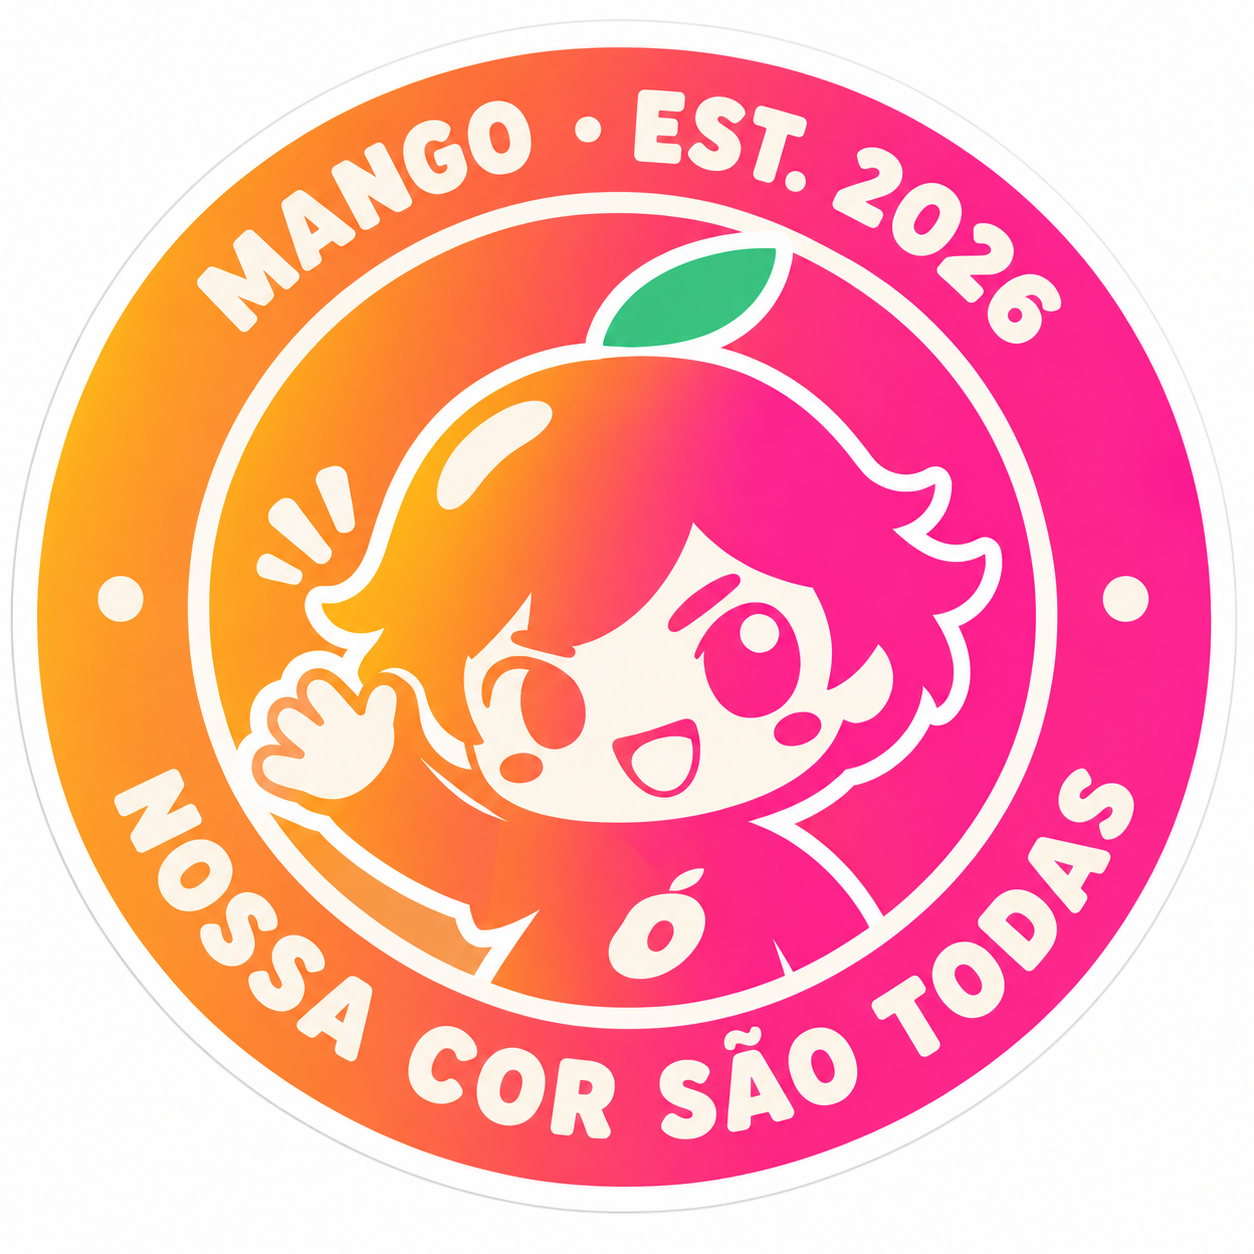
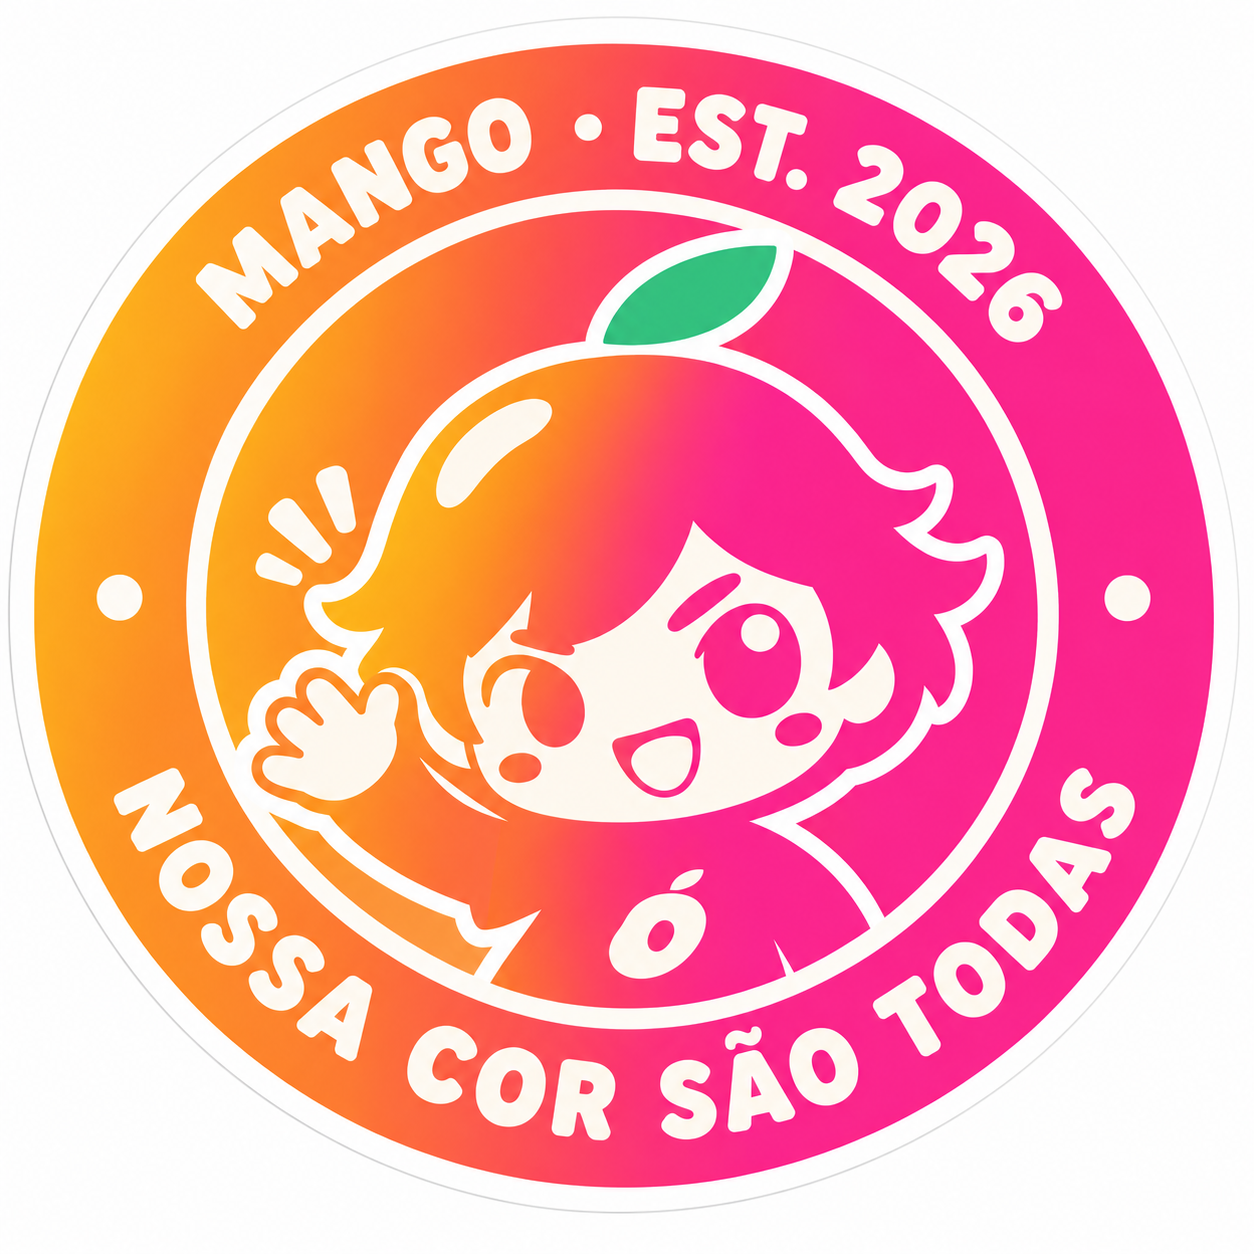
feat(mascote): Mangy de uma cor (máscara mono), selo refeito e rosa #FD228A oficial na camada expressiva

diff --git a/escolhas/marca/mascote.html b/escolhas/marca/mascote.html
@@ -106,6 +106,23 @@ img{display:block;max-width:100%;height:auto}
 .escala-ic div{display:grid;gap:8px;justify-items:center}
 .escala-ic img{border-radius:22.5%}
 
+/* Uma cor só: a máscara mono pinta com a cor do texto (como o .logo-m) */
+.mono-m{display:block;background:currentColor;-webkit-mask:var(--src) center/contain no-repeat;mask:var(--src) center/contain no-repeat}
+.mono-m.corpo{--src:url(mascote/mono-corpo.webp);aspect-ratio:890/1389}
+.mono-m.cabeca{--src:url(mascote/mono-cabeca.webp);aspect-ratio:466/394}
+.monos{display:grid;grid-template-columns:repeat(4,1fr);gap:16px}
+.monos figure{display:grid;gap:10px}
+.monos .placa{border-radius:22px;aspect-ratio:.8;display:grid;place-items:center;padding:28px;position:relative}
+.monos .placa small{position:absolute;left:14px;bottom:12px;font:500 11px ui-monospace,Consolas,monospace;opacity:.7}
+.monos .corpo{height:78%}
+.monos .cabeca{width:78%}
+.mini{display:flex;align-items:center;gap:22px;margin-top:20px;padding:20px 24px;border-radius:22px;background:#000;color:#fff;flex-wrap:wrap}
+.mini div{display:grid;gap:6px;justify-items:center}
+.mini .mono{color:#a1a1a6}
+.mini .notif{display:flex;align-items:center;gap:10px;margin-left:auto;background:#1c1c1e;border-radius:16px;padding:10px 14px;font-size:13px}
+.notif .cabeca{width:22px}
+@media (max-width:900px){.monos{grid-template-columns:1fr 1fr}}
+
 /* Selo */
 .selos{display:grid;grid-template-columns:1.2fr 1fr;gap:16px}
 .selos .palco{aspect-ratio:1.1}
@@ -296,8 +313,25 @@ img{display:block;max-width:100%;height:auto}
     <p class="mono" style="margin-top:14px">O degradê no quadrado é a alternativa porque o MARCA.md já rejeitou "glifo em quadrado com degradê". Pra uso real, o ícone é redesenhado em vetor.</p>
   </section>
 
+  <section class="bloco" id="uma-cor">
+    <h2><span class="num">09</span>Uma cor só</h2>
+    <p class="rot">Quando só dá pra usar uma tinta · o creme vira vazado</p>
+    <div class="monos">
+      <figure><div class="placa" style="background:#1d1d1f;color:#fff"><span class="mono-m corpo" role="img" aria-label="Mangy branco"></span><small>Branco no escuro</small></div><span class="mono">Gravação a laser na tampa</span></figure>
+      <figure><div class="placa" style="background:#fff;box-shadow:inset 0 0 0 1px #e3e3e8;color:#1d1d1f"><span class="mono-m corpo" role="img" aria-label="Mangy preto"></span><small>Preto no claro</small></div><span class="mono">Serigrafia de uma cor</span></figure>
+      <figure><div class="placa malha" style="color:#fff"><span class="mono-m cabeca" role="img" aria-label="Cabeça do Mangy branca"></span><small>Branco na cor</small></div><span class="mono">Marca d'água em foto e vídeo</span></figure>
+      <figure><div class="placa" style="background:var(--m-creme);color:var(--m-rosa)"><span class="mono-m cabeca" role="img" aria-label="Cabeça do Mangy rosa"></span><small>Rosa no creme</small></div><span class="mono">Carimbo, embalagem</span></figure>
+    </div>
+    <div class="mini">
+      <div><span class="mono-m cabeca" style="width:64px"></span><span class="mono">64</span></div>
+      <div><span class="mono-m cabeca" style="width:32px"></span><span class="mono">32</span></div>
+      <div><span class="mono-m cabeca" style="width:20px"></span><span class="mono">20</span></div>
+      <div class="notif"><span class="mono-m cabeca"></span><span><b>Mango</b> · Seu pedido saiu pra entrega.</span></div>
+    </div>
+  </section>
+
   <section class="bloco">
-    <h2><span class="num">09</span>Selo</h2>
+    <h2><span class="num">10</span>Selo</h2>
     <div class="selos">
       <div class="palco"><img src="mascote/circular-1.webp" alt="Selo redondo: MANGO · EST. 2026 · NOSSA COR SÃO TODAS, com o Mangy acenando" loading="lazy"></div>
       <div class="selo-usos">
@@ -308,7 +342,7 @@ img{display:block;max-width:100%;height:auto}
   </section>
 
   <section class="bloco">
-    <h2><span class="num">10</span>Escala de maturação</h2>
+    <h2><span class="num">11</span>Escala de maturação</h2>
     <p class="rot">O nível de pimenta do Blazo, na versão Mango</p>
     <div class="matur">
       <figure><div class="palco"><img class="adesivo" src="mascote/maturacao-1.webp" alt="Mangy verde, tímido" loading="lazy"></div><div class="legenda"><b>Verde</b><span class="mono">Começando. Conta nova, plano grátis.</span></div></figure>
@@ -320,7 +354,7 @@ img{display:block;max-width:100%;height:auto}
   </section>
 
   <section class="bloco">
-    <h2><span class="num">11</span>Com os produtos</h2>
+    <h2><span class="num">12</span>Com os produtos</h2>
     <div class="grade g2 prod">
       <figure><div class="palco"><img class="adesivo" src="mascote/produto-1.webp" alt="Mangy com um notebook" loading="lazy"></div><div class="legenda"><span class="mono">MangoBook · lançamento, redes</span></div></figure>
       <figure><div class="palco"><img class="adesivo" src="mascote/produto-2.webp" alt="Mangy tirando selfie com o celular" loading="lazy"></div><div class="legenda"><span class="mono">Mangophone · stories, adesivo de câmera</span></div></figure>
@@ -335,11 +369,11 @@ img{display:block;max-width:100%;height:auto}
       <div class="linha-p" style="--cor:var(--c-verde)"></div>
       <div class="linha-p" style="--cor:var(--c-roxo)"></div>
     </div>
-    <p class="mono" style="padding:10px 4px">12 · Parede de palavras · os microtextos da marca repetidos, nas seis cores, com o Mangy no meio</p>
+    <p class="mono" style="padding:10px 4px">13 · Parede de palavras · os microtextos da marca repetidos, nas seis cores, com o Mangy no meio</p>
   </section>
 
   <section class="bloco">
-    <h2><span class="num">13</span>Cartaz</h2>
+    <h2><span class="num">14</span>Cartaz</h2>
     <div class="cartazes">
       <div class="cartaz" style="background:var(--m-degrade)"><p>Doce<br>por fora.</p><img class="adesivo" src="mascote/expressions-2.webp" alt=""><small><span>Mango · Est. 2026</span></small></div>
       <div class="cartaz olho" style="background:#000"><p style="color:var(--m-rosa)">Caiu<br>do pé.</p><img src="mascote/eyes-2.webp" alt=""><small><span>Erro 404</span><span>Mango</span></small></div>
@@ -348,7 +382,7 @@ img{display:block;max-width:100%;height:auto}
   </section>
 
   <section class="bloco">
-    <h2><span class="num">14</span>Textura</h2>
+    <h2><span class="num">15</span>Textura</h2>
     <p class="rot">Linhas de relevo nas seis cores · fundo de pôster, caixa, tela de carregamento</p>
     <div class="texturas" id="texturas"></div>
   </section>

diff --git a/scripts/recortar-mascote.py b/scripts/recortar-mascote.py
@@ -69,7 +69,27 @@ def recortar(arq, inteira=False):
     return len(pecas)
 
 
+def mono(recorte, nome):
+    """Versão de uma cor: o que tem cor vira tinta (branco), o creme e a borda viram vazado.
+    Sai como máscara: no CSS, mask:url(...) + background pinta de qualquer cor."""
+    rgba = np.asarray(Image.open(SAIDA / recorte).convert('RGBA')).astype(float)
+    mx, mn = rgba[..., :3].max(axis=2), rgba[..., :3].min(axis=2)
+    sat = (mx - mn) / np.maximum(mx, 1)
+    # ponytail: corte fixo de saturação (creme ~0.07, degradê ~0.9); ajustar se a IA mudar o creme
+    tinta = np.clip((sat - .2) / .25, 0, 1) * rgba[..., 3] / 255
+    a = (tinta * 255).astype(np.uint8)
+    ys, xs = np.nonzero(a > 8)
+    a = a[ys.min():ys.max() + 1, xs.min():xs.max() + 1]
+    Image.fromarray(np.dstack([np.full(a.shape + (3,), 255, np.uint8), a])).save(SAIDA / nome, quality=90, method=6)
+
+
 if __name__ == '__main__':
     SAIDA.mkdir(parents=True, exist_ok=True)
     for arq in sorted(ORIGEM.glob('*.png')):
         print(arq.name, recortar(arq, inteira=arq.stem in INTEIRAS))
+    mono('mangy-final-1.webp', 'mono-corpo.webp')
+    mono('expressions-1.webp', 'mono-cabeca.webp')
+    # teste: a máscara tem que ter tinta (cabelo/corpo) e vazado (rosto) dentro do contorno
+    m = np.asarray(Image.open(SAIDA / 'mono-cabeca.webp'))[..., 3]
+    assert (m > 200).mean() > .25 and (m < 20).mean() > .15, 'máscara mono saiu cheia ou vazia demais'
+    print('mono ok')

diff --git a/docs/RETOMAR.md b/docs/RETOMAR.md
@@ -16,7 +16,7 @@ Plano geral: livro "Ecossistema Mango" (link no `CLAUDE.md`). Spec e plano do ki
 - **Adesivos agora são feitos por IA, um por um.** Padrão aprovado: `IA/STICKERS/batmango.png`
   (corpo inteiro chibi, um degradê laranja → rosa-choque, detalhes vazados em creme, sem linha preta,
   folha verde e cabinho marrom chapados, borda branca grossa, fundo transparente).
-- Rosa dos adesivos: mais choque (~`#FF3D7F`) que o rosa da marca (`#FF5E7E`). Confirmar.
+- Rosa dos adesivos e do Mangy: **`#FD228A`** (decidido em 26/11, está no MARCA.md).
 - Adesivos não precisam falar da Mango; só usar a estética.
 - Não temos limite de escopo: pode fazer bastante, desde que um por um e bem feito.
 
@@ -47,13 +47,14 @@ expressiva para campanhas, merch, adesivos e redes.
 ## Próximos passos (na ordem)
 
 1. ~~Mascote oficial~~ **Mangy** (24/11) e ~~série de imagens 2 a 9~~ (26/11), em `IA/MASCOTE/`.
-   Pendências da série: no **selo** (`circular.png`), a mão acenando saiu transparente; em **maturacao** e **produto**,
+   Selo refeito em 26/11 (mão opaca). Pendência opcional: em **maturacao** e **produto**,
    o fundo saiu cinza e apareceu um cabinho (o Mangy tem folha solta). Pra refazer, é só trocar o PNG e rodar
    `python scripts/recortar-mascote.py` (gera os recortes em `escolhas/marca/mascote/`).
 2. ~~Prancha `escolhas/marca/mascote.html`~~ (26/11): capa, duas camadas, quem é, folha, assinatura em 4 fundos,
    expressões, 6 cores, só os olhos, ícone, selo, maturação, produtos, parede de palavras, cartaz, textura, pode/não pode.
    Ícone **oficial = fundo creme**: o de degradê fica como alternativa (o MARCA.md rejeita glifo em quadrado com degradê).
-   Rosa do Mangy medido: `#FD228A` (ainda mais choque que o `#FF3D7F` dos adesivos); falta decidir qual fica.
+   Seção **09 Uma cor só**: máscaras `mono-corpo`/`mono-cabeca` geradas pelo script (cor vira tinta, creme vira vazado),
+   pintadas por CSS em qualquer cor. Se quiser mais capricho, refazer no GPT como silhueta branca.
 3. **Adesivos por IA, um por um.** Próximo: **Manga veloz** (prompt pronto em `refs/prompts-adesivos.md`).
    Depois urso, kaiju, rabisco; depois padrão próprio para letreiros e selos.
 4. Do plano do kit: `cartoes.html` (cartão-presente) e `apps.html` (ícones do MangoOS).

diff --git a/refs/prompts-adesivos.md b/refs/prompts-adesivos.md
@@ -10,7 +10,7 @@ Para os personagens. Feitos **um por um**; cada resultado vai para `IA/STICKERS/
 ```
 Chibi full-body character sticker with chunky toy proportions: oversized head, small round body,
 short stubby arms and legs, confident pose. The entire character is filled with ONE smooth horizontal
-gradient from warm orange (#FF9F1C) on the left to hot pink (#FF3D7F) on the right, continuous across
+gradient from warm orange (#FF9F1C) on the left to hot pink (#FD228A) on the right, continuous across
 body, head and accessories. Face features and emblems are flat cream-white negative-space cutouts (#FFF4EA).
 No black outlines, no inner lines, no shading, no texture. Natural details keep their own flat colors:
 brown stem, green leaf (#1FB57A). Thick white die-cut sticker border with a very thin light grey outer edge.
@@ -60,7 +60,7 @@ surprised, angry/determined, sleepy, winking with tongue out. Same head shape, s
 ```
 Six full-body stickers of this exact mascot in a row, identical pose, each one in a different two-color gradient:
 orange to yellow (#FF9F1C to #FFD23F), pink to purple (#FF5E7E to #7B5CFF), blue to cyan (#2F7BFF to #22B5E8),
-green to cyan (#1FB57A to #22B5E8), purple to blue (#7B5CFF to #2F7BFF), orange to hot pink (#FF9F1C to #FF3D7F).
+green to cyan (#1FB57A to #22B5E8), purple to blue (#7B5CFF to #2F7BFF), orange to hot pink (#FF9F1C to #FD228A).
 Cream details, white die-cut borders.
 ```
 
@@ -88,7 +88,7 @@ white die-cut border.
 ```
 Three stickers of this mascot in a row as a ripeness scale, each with a small label below:
 "VERDE" (mascot in green gradient #1FB57A to #3DDC97, shy), "MADURA" (orange to hot pink, confident pose),
-"DOCE DEMAIS" (hot pink to purple #FF3D7F to #7B5CFF, sunglasses, ultra confident).
+"DOCE DEMAIS" (hot pink to purple #FD228A to #7B5CFF, sunglasses, ultra confident).
 Bold rounded capital labels, white die-cut borders.
 ```
 

diff --git a/MARCA.md b/MARCA.md
@@ -57,6 +57,8 @@ A Mango **não tem uma cor só**, e não é laranja. Destaques, ícones acesos n
 
 Cores de apoio para degradês: amarelo `#ffd23f`, lilás `#a46bff`, azul-claro `#3aa0ff`, verde-água `#3ddc97`.
 
+Rosa-choque do Mangy e dos adesivos: `#fd228a` (degradê `#ff9f1c → #fd228a`). Só na camada expressiva (mascote, adesivos, campanhas); no site e na loja o rosa continua `#ff5e7e`.
+
 Degradês que já existem:
 - **Manga:** `linear-gradient(95deg, #ffd23f, #ff9f1c 40%, #ff5e7e)` (números grandes, barra de bateria)
 - **Arco-íris (IA):** `linear-gradient(95deg, #ff9f1c, #ff5e7e 35%, #a46bff 70%, #3aa0ff)`
